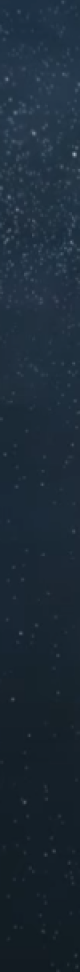
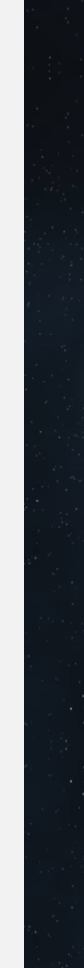
tag animate

diff --git a/src/pages/ri_intragroup.vue b/src/pages/ri_intragroup.vue
@@ -139,71 +139,79 @@
           </div>
         </div>
         <br />
+        <!--///////////// view A Type  ///////////-->
         <div v-if="viewType == 'A'">
-          See how each country is integrated with the group
+          <div>See how each country is integrated with the group</div>
+          <!-- chart view  -->
+          <div class="row items-end">
+            <div class="col-1"></div>
+            <div class="q-px-xs" align="center">
+              <div
+                :class="showTypeChart == 'A' ? 'btnGreen' : 'btnGrey'"
+                @click="chartView('A')"
+                class="cursor-pointer"
+              >
+                Index
+              </div>
+            </div>
+            <div class="q-px-xs" align="center">
+              <div
+                :class="showTypeChart == 'B' ? 'btnGreen' : 'btnGrey'"
+                @click="chartView('B')"
+                class="cursor-pointer"
+              >
+                Data availablity
+              </div>
+            </div>
+            <div class="q-px-xs" align="center">
+              <div
+                :class="showTypeChart == 'C' ? 'btnGreen' : 'btnGrey'"
+                @click="chartView('C')"
+                class="cursor-pointer"
+              >
+                Weights
+              </div>
+            </div>
+            <div class="col"></div>
+            <div>
+              <u>Click here to see this group’s availablility matrix</u>
+            </div>
+            <div class="col-1"></div>
+          </div>
+          <br />
+          <!-- Line chart for by country  -->
+          <main-linechart
+            v-if="showTypeChart == 'A'"
+            :input="input"
+            :data="lineChartByCountryData"
+          ></main-linechart>
+          <data-availbar
+            v-else-if="showTypeChart == 'B'"
+            :data="input.partner"
+            :year="input.endYear"
+          ></data-availbar>
+          <weight-bycountry
+            v-else
+            :data="input.partner"
+            :year="input.endYear"
+          ></weight-bycountry>
+          <economy-circle
+            :type="input.type"
+            :data="input.partner"
+            :year="input.endYear"
+          ></economy-circle>
         </div>
+        <!--///////////// view B Type  ///////////-->
         <div v-else>
-          See how each dimension is integrated with the group
+          <div>See how each dimension is integrated with the group</div>
+          <!-- chart view  -->
+          <dimension-linechart
+            :input="input"
+            :data="lineChartByDimensionData"
+          ></dimension-linechart>
         </div>
       </div>
       <br />
-      <!-- chart view  -->
-      <div class="row items-end">
-        <div class="col-1"></div>
-        <div class="q-px-xs" align="center">
-          <div
-            :class="showTypeChart == 'A' ? 'btnGreen' : 'btnGrey'"
-            @click="chartView('A')"
-            class="cursor-pointer"
-          >
-            Index
-          </div>
-        </div>
-        <div class="q-px-xs" align="center">
-          <div
-            :class="showTypeChart == 'B' ? 'btnGreen' : 'btnGrey'"
-            @click="chartView('B')"
-            class="cursor-pointer"
-          >
-            Data availablity
-          </div>
-        </div>
-        <div class="q-px-xs" align="center">
-          <div
-            :class="showTypeChart == 'C' ? 'btnGreen' : 'btnGrey'"
-            @click="chartView('C')"
-            class="cursor-pointer"
-          >
-            Weights
-          </div>
-        </div>
-        <div class="col"></div>
-        <div><u>Click here to see this group’s availablility matrix</u></div>
-        <div class="col-1"></div>
-      </div>
-      <br />
-      <!-- Line chart for by country  -->
-
-      <main-linechart
-        v-if="showTypeChart == 'A'"
-        :input="input"
-        :data="lineChartByCountryData"
-      ></main-linechart>
-      <data-availbar
-        v-else-if="showTypeChart == 'B'"
-        :data="input.partner"
-        :year="input.endYear"
-      ></data-availbar>
-      <weight-bycountry
-        v-else
-        :data="input.partner"
-        :year="input.endYear"
-      ></weight-bycountry>
-      <economy-circle
-        :type="input.type"
-        :data="input.partner"
-        :year="input.endYear"
-      ></economy-circle>
     </div>
 
     <my-footer></my-footer>
@@ -217,6 +225,7 @@ import fourBar from "../components/ri/ri_fourbar";
 import selectItem from "../components/ri_selectitem";
 import circleAvail from "../components/ri/ri_data_avail_circle";
 import mainLinechart from "../components/ri/ri_main_linechart";
+import dimensionLinechart from "../components/ri/ri_intra_bydimension_line";
 import dimensionsIcon from "../components/ri/ri_dimensions_icon";
 import economyCircle from "../components/ri/ri_economy_circle";
 import dataAvailbar from "../components/ri/ri_intra_bycountry_avaliable";
@@ -234,7 +243,8 @@ export default {
     dimensionsIcon,
     economyCircle,
     dataAvailbar,
-    weightBycountry
+    weightBycountry,
+    dimensionLinechart
   },
   data() {
     return {
@@ -321,6 +331,40 @@ export default {
         {
           name: "Uruguay",
           data: [0.53, 0.6, 0.63, 0.65, 0.67, 0.69]
+        }
+      ],
+      lineChartByDimensionData: [
+        {
+          name: "Your group",
+          data: [0.53, 0.6, 0.63, 0.65, 0.67, 0.69]
+        },
+        {
+          name: "Trade and investment",
+          data: [0.82, 0.84, 0.87, 0.88, 0.9, 0.91]
+        },
+        {
+          name: "Financial integration",
+          data: [0.9, 0.92, 0.92, 0.93, 0.94, 0.96]
+        },
+        {
+          name: "Regional value chain integration",
+          data: [0.75, 0.78, 0.79, 0.81, 0.82, 0.92]
+        },
+        {
+          name: "Infrastructure integration",
+          data: [0.63, 0.67, 0.8, 0.82, 0.87, 0.9]
+        },
+        {
+          name: "Movement of peolple",
+          data: [0.56, 0.59, 0.63, 0.7, 0.72, 0.87]
+        },
+        {
+          name: "Regulatory cooperation",
+          data: [0.56, 0.59, 0.63, 0.8, 0.85, 0.86]
+        },
+        {
+          name: "Digital economy",
+          data: [0.43, 0.5, 0.53, 0.55, 0.57, 0.79]
         }
       ]
     };

diff --git a/src/components/ri/ri_intra_bydimension_line.vue b/src/components/ri/ri_intra_bydimension_line.vue
@@ -6,34 +6,32 @@
     ></div>
     <br />
     <div class="selectBoxDiv q-pa-sm" align="left">
-      <div class="font-18 "><b>Select economies of interst</b></div>
-      <div class="">
-        Number in parentheses are
-        <span v-if="input.type == 'A'">Sustainable</span
-        ><span v-else>Conventional</span> Integration Index from the
-        {{ input.endYear }}
+      <div class="font-18 ">
+        <b>Select dimensions of interest</b>
       </div>
-      <div>Click on each country to select / unselect it in the graph</div>
+      <div class="q-pb-sm">
+        Click on each dimension to select/unselect it in the graph
+      </div>
+
       <div class="row">
+        <!-- select  -->
         <div class="row cursor-pointer" @click="toggleGroup()">
-          <!-- select  -->
           <div
             class="colorBox"
             v-if="showGroup"
-            style="background:#D680AD;"
+            style="background:#3F51B5;"
           ></div>
           <div class="colorBox" v-else></div>
           <div class="q-pl-sm">Group average ({{ valueGroup }})</div>
-
-          <!-- select  -->
         </div>
         <div class="col"></div>
+        <!-- select  -->
       </div>
       <div><hr /></div>
       <div class="row">
         <div
           class="q-py-sm row"
-          style="width:20%"
+          style="width:25%"
           v-for="(item, index) in showItem"
           :key="index"
         >
@@ -64,27 +62,14 @@ export default {
       realChart: [],
       showItem: [],
       colorPattern: [
+        "#3F51B5",
+        "#64C1E8",
+        "#D85B63",
         "#D680AD",
-        "#F44336",
-        "#2196F3",
-        "#8BC34A",
-        "#FF5722",
-        "#795548",
-        "#CDDC39",
-        "#03A9F4",
-        "#E91E63",
-        "#9C27B0",
-        "#00BCD4",
-        " #FFEB3B",
-        "#9E9E9E",
-        "#673AB7",
-        "#009688",
-        "#FFC107",
-        "#607D8B",
-        "#536DFE",
-        "#FF9800",
-        "#4CAF50",
-        "#3F51B5"
+        "#5C5C5C",
+        "#C0BA80",
+        "#FDC47D",
+        "#EA3B46"
       ],
       selected: false
     };
@@ -203,8 +188,8 @@ export default {
         credits: {
           enabled: false
         },
-        legend: { enabled: false },
-        exporting: { enabled: false }
+        exporting: { enabled: false },
+        legend: { enabled: false }
       });
     }
   },

diff --git a/src/pages/welcome.vue b/src/pages/welcome.vue
@@ -54,7 +54,7 @@
           <!-------------------------- end footer  --------------------->
         </div>
         <div class="rightTagR absolute-right" style="" @click="togglePage()">
-          <div class="">
+          <div class="absolute-right">
             <div class="imgTag">
               <img src="../../public/tagSdgs.png" height="100%" alt="" />
             </div>
@@ -131,7 +131,7 @@
         </div>
         <div class="rightTag absolute-right" @click="togglePage()">
           <div class="absolute-right">
-            <div class="imgTag ">
+            <div class="imgTag">
               <img src="../../public/tagRiva.png" alt="" height="100%" />
             </div>
           </div>
@@ -205,14 +205,14 @@ export default {
   cursor: pointer;
   width: 70px;
   height: 100vh;
-  background: rgba(237, 237, 237, 1);
+  background: url("../../public/tagBgR.png");
 }
 .rightTag {
   cursor: pointer;
 
   width: 70px;
   height: 100vh;
-  transition: 0.3s;
+  background: url("../../public/tagBg.png");
 }
 .imgTag {
   transition: 0.3s;

diff --git a/src/pages/ri_economypartner.vue b/src/pages/ri_economypartner.vue
@@ -308,7 +308,7 @@ export default {
       });
       this.countryReportList.sort((a, b) => (a.label > b.label ? 1 : -1));
       if (
-        this.countryReportList.length == 1 &&
+        this.countryReportList.length >= 1 &&
         this.countryPartnerList.length >= 2
       ) {
         this.calPieChart();
@@ -343,7 +343,7 @@ export default {
       });
       this.countryPartnerList.sort((a, b) => (a.label > b.label ? 1 : -1));
       if (
-        this.countryReportList.length == 1 &&
+        this.countryReportList.length >= 1 &&
         this.countryPartnerList.length >= 2
       ) {
         this.calPieChart();

diff --git a/src/components/ri/ri_intra_bycountry_weight.vue b/src/components/ri/ri_intra_bycountry_weight.vue
@@ -35,14 +35,10 @@ export default {
           minorGridLineWidth: 0,
           lineColor: "transparent"
         },
-        tooltip: {
-          valueSuffix: " %"
-        },
         plotOptions: {
           bar: {
             dataLabels: {
-              enabled: true,
-              format: "{y} %"
+              enabled: true
             }
           },
           series: {
